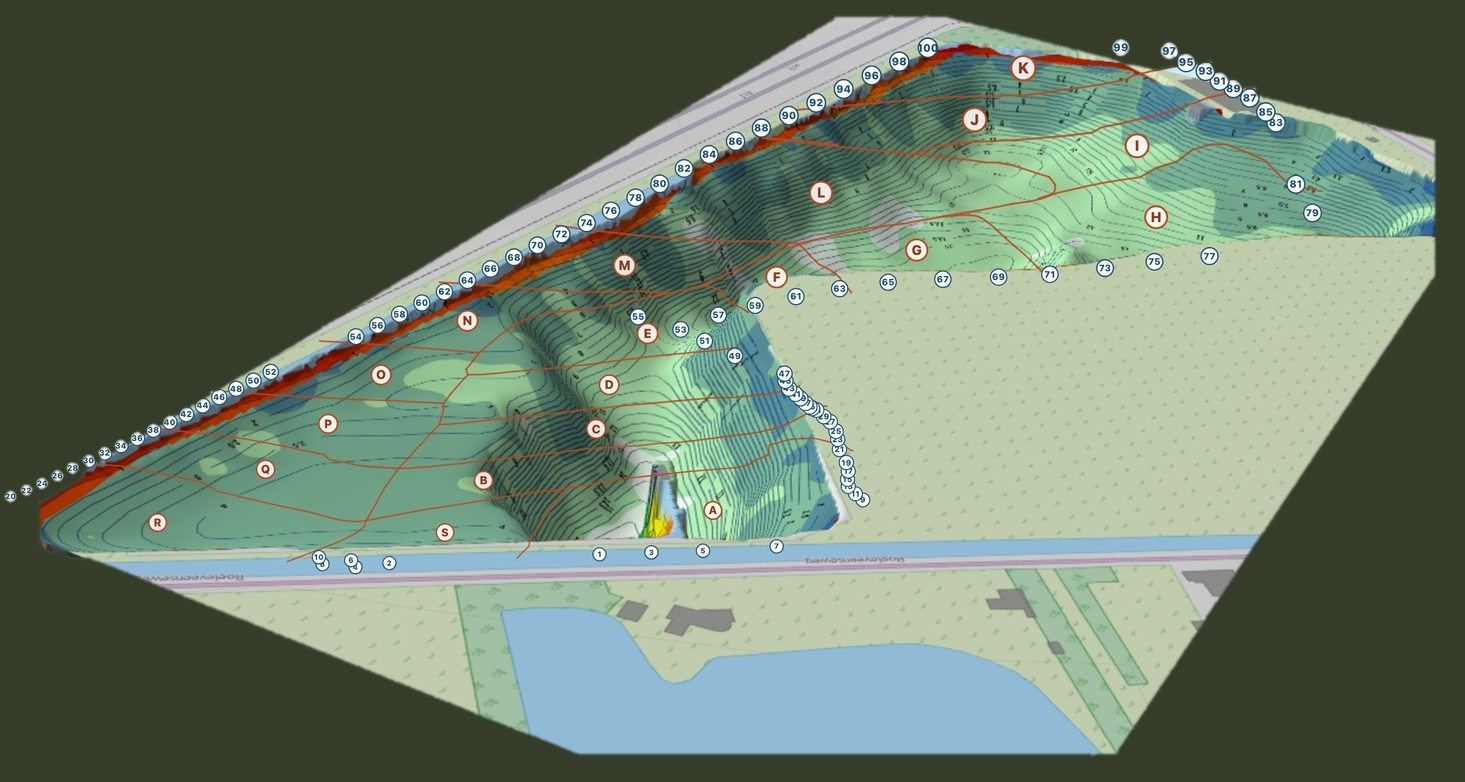
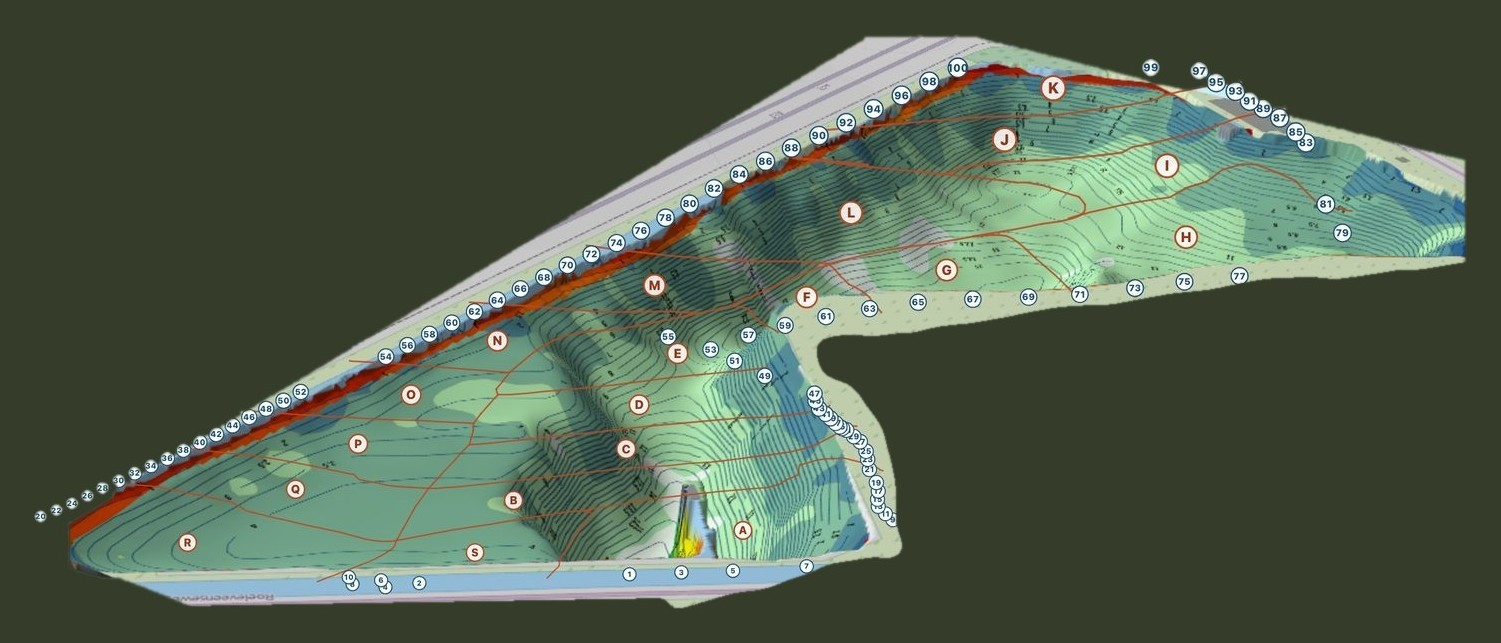
3D-kaart op de startpagina: alleen het water
Op aanwijzing van Patrick is het water uitgesneden; het weiland, de tweede plas
en de bebouwing eronder zijn weg. Alle steknummers en zones staan er nog op.
Nieuw formaat 1501 x 643. Gereedschap en de getekende lijn in tools/kaart3d/.

diff --git a/docs/index.html b/docs/index.html
@@ -235,7 +235,7 @@
         </div>
       </div>
       <figure class="kaartplaat" data-toon>
-        <img src="schermen/kaart3d-stekken.webp" alt="De 3D-dieptescan van de Plas van der Ende met de stekken en zones uit de app eroverheen" width="1465" height="782" loading="lazy">
+        <img src="schermen/kaart3d-stekken.webp" alt="De 3D-dieptescan van de Plas van der Ende met de stekken en zones uit de app eroverheen" width="1501" height="643" loading="lazy">
         <figcaption class="klein">Waar het mee begint: de dieptescan
         van jullie water, hier in 3D met de stekken en zones uit de app eroverheen. Zo'n scan,
         een oude papieren kaart of een tekening; wij maken er de interactieve kaart van.</figcaption>

diff --git a/tools/kaart3d/snij_water_uit.py b/tools/kaart3d/snij_water_uit.py
@@ -1,0 +1,90 @@
+"""Snijdt het water uit de 3D-kaart langs de lijn die Patrick op 19 nov 2026 in een schermafbeelding tekende.
+
+Gebruik (vanuit app/):
+  python3 tools/kaart3d/snij_water_uit.py <werkmap> <bron.jpg> <uit.jpg>
+In <werkmap>/kaart/ moet `lijn.png` staan (kopie van tools/kaart3d/lijn-patrick-2026-11-19.png:
+de getekende lijn, 2000 x 1077, wit op zwart). De bron is de ONGESNEDEN plaat van 1465 x 782
+(`git show 7ce5077:docs/schermen/kaart3d-stekken.jpg`). Daarna zelf rondom marge zetten en
+`python3 tools/naar_webp.py` draaien; zie CLAUDE.md, "Vormgeving van de startpagina".
+De schaal en verschuiving (S, DX, DY) horen bij die ene schermafbeelding."""
+import sys
+from collections import deque
+import numpy as np
+from PIL import Image, ImageFilter, ImageDraw
+
+sp, bron_pad, uit_pad = sys.argv[1], sys.argv[2], sys.argv[3]
+S, DX, DY = 1.424, 88, 28                       # schermafbeelding = bron x S, verschoven
+bron = Image.open(bron_pad).convert('RGB'); BW, BH = bron.size
+lijn_u = Image.open(sp + '/kaart/lijn.png').convert('L'); UW, UH = lijn_u.size
+
+# 1. de lijn naar de maat van de bron
+doek = Image.new('L', (int(BW * S) + 2, int(BH * S) + 2), 0); doek.paste(lijn_u, (DX, DY))
+lijn = np.asarray(doek.resize((BW, BH), Image.BILINEAR)) > 40
+
+def delen(m):
+    H, W = m.shape; lab = np.zeros((H, W), int); uit = []
+    for y in range(H):
+        for x in range(W):
+            if m[y, x] and not lab[y, x]:
+                n = len(uit) + 1; q = deque([(y, x)]); lab[y, x] = n; px = []
+                while q:
+                    cy, cx = q.popleft(); px.append((cx, cy))
+                    for dy in (-1, 0, 1):
+                        for dx in (-1, 0, 1):
+                            ny, nx = cy + dy, cx + dx
+                            if 0 <= ny < H and 0 <= nx < W and m[ny, nx] and not lab[ny, nx]:
+                                lab[ny, nx] = n; q.append((ny, nx))
+                uit.append(px)
+    return sorted(uit, key=len, reverse=True)
+
+d = delen(lijn); hoofd, haak = d[0], d[1]
+links = lambda px: min(px); rechts = lambda px: max(px)
+print('hoofdlijn', links(hoofd), rechts(hoofd), '| haak', links(haak), rechts(haak))
+
+# 2. achtergrond van de plaat (donkergroen)
+a = np.asarray(bron).astype(int); bg = np.array(bron.getpixel((3, 3)))
+achtergrond = (np.abs(a - bg).sum(axis=2) < 26)
+
+# 3. de lijn doortrekken tot de linker- en rechterrand van het beeld: dan verdeelt hij het
+#    beeld in een waterkant (boven) en een landkant (onder)
+dicht = Image.fromarray((lijn * 255).astype('uint8')); t = ImageDraw.Draw(dicht)
+t.line([rechts(haak), links(hoofd)], fill=255, width=3)                         # haak naar hoofdlijn
+hx, hy = links(haak); t.line([(hx, hy), (0, hy + 6)], fill=255, width=3)          # haak naar links
+rx, ry = rechts(hoofd); t.line([(rx, ry), (BW - 1, ry - 14)], fill=255, width=3)   # rechts door tot de rand
+muur = np.asarray(dicht.filter(ImageFilter.MaxFilter(3))) > 0
+
+# 4. alles aan de waterkant van de lijn (ook de losse steknummers die buiten de plaat zweven)
+zx, zy = int((900 + DX) / S), int((450 + DY) / S)
+assert not muur[zy, zx], 'startpunt ligt op de lijn'
+boven = np.zeros((BH, BW), bool); q = deque([(zy, zx)]); boven[zy, zx] = True
+while q:
+    cy, cx = q.popleft()
+    for dy, dx in ((1, 0), (-1, 0), (0, 1), (0, -1)):
+        ny, nx = cy + dy, cx + dx
+        if 0 <= ny < BH and 0 <= nx < BW and not boven[ny, nx] and not muur[ny, nx]:
+            boven[ny, nx] = True; q.append((ny, nx))
+boven |= muur & np.roll(boven, 2, axis=0)      # de lijn zelf hoort bij de waterkant
+
+# 5. langs de weg onder de vaart een rechte snede (de handlijn slingert daar om de weg heen):
+#    net onder de paarse weglijn, tot waar de handlijn omhoog gaat
+WEG_TOT = 640
+xs_ = np.arange(BW); weg = (585.0 - 0.0165 * xs_ + 3).astype(int)
+for x in range(0, WEG_TOT):
+    boven[weg[x] + 1:, x] = False
+    boven[500:weg[x] + 1, x] = True
+print('waterkant: %.1f%% van het beeld' % (100 * boven.mean()))
+masker = Image.fromarray((boven * 255).astype('uint8'))
+glad = masker.filter(ImageFilter.GaussianBlur(6)).point(lambda v: 255 if v > 128 else 0).filter(ImageFilter.GaussianBlur(0.8))
+masker.save(sp + '/kaart/masker.png')
+
+# 6. samenstellen op de achtergrondkleur en bijsnijden met marge
+vlak = Image.new('RGB', (BW, BH), tuple(int(v) for v in bg))
+uit = Image.composite(bron, vlak, glad)
+inhoud = (np.asarray(glad) > 128) & ~achtergrond
+# losse spikkels van de jpeg-compressie tellen niet mee voor de uitsnede
+inhoud = np.asarray(Image.fromarray((inhoud * 255).astype('uint8')).filter(ImageFilter.MinFilter(3))) > 0
+ys, xs = np.nonzero(inhoud)
+marge = 28
+box = (max(0, xs.min() - marge), max(0, ys.min() - marge), min(BW, xs.max() + marge), min(BH, ys.max() + marge))
+uit = uit.crop(box); print('uitsnede', box, 'maat', uit.size)
+uit.save(uit_pad, quality=90, optimize=True, progressive=True)

diff --git a/CLAUDE.md b/CLAUDE.md
@@ -1370,13 +1370,23 @@ elke vangst") en de kopjes "Meedoen" en "Contact" in de voet.
      tabbalk onder de topbar staat. Het beeld toont "Jij bent aan de beurt", de kaart
      met vrije en bezette stekken en de eerste regels van "Loting & volgorde".
   **Wel actueel en dus gelaten:** `scherm-klassement` (hero; vergeleken met een verse
-  opname, zelfde vormgeving), `scherm-overzicht`, `scherm-kaart-nphv`, `kaart3d-stekken`,
+  opname, zelfde vormgeving), `scherm-overzicht`, `scherm-kaart-nphv`,
   `uitsnede-seizoen`, `uitslag-gedeeld`, `vangst-klassement` (alle 18 nov), de filmposters
   (19 nov), `og.png`, de twee advertenties (telefoon helemaal in beeld) en beide A4's
   (geen telefoon). **Niet meer in gebruik op de site** (oude vormgeving, alleen nog bron
   of historie): `scherm-home`, `scherm-vangsten`, `scherm-seizoen`, `scherm-afsluiting`,
   `uitslag-carpclassic-2026`. `vangst-klein.jpg` en `avondlicht-800.jpg` worden door
   gereedschap gebruikt (rooktest, advertentie, huisstijloverzicht): laten staan.
+- **`kaart3d-stekken`: alleen nog het water (19 nov, op aanwijzing van Patrick).** Hij tekende
+  in een schermafbeelding een zwarte lijn om het water; het weiland, de tweede plas en de
+  bebouwing eronder zijn weggesneden. Alle steknummers staan er nog op, ook de losse nummers
+  20 tot 28 en 99 die buiten de plaat zweven. Langs de weg onder de vaart is de snede recht
+  getrokken (de handlijn slingerde daar), de rest volgt zijn lijn, gladgestreken. Nieuw
+  formaat 1501 x 643 (was 1465 x 782); `width` en `height` in `index.html` zijn meegegaan.
+  Gereedschap en de lijn zelf: `tools/kaart3d/`. De ongesneden plaat staat in git
+  (`git show 7ce5077:docs/schermen/kaart3d-stekken.jpg`). **Niet aangepast:**
+  `docs/nphv/kaart-3d.jpg`, de 3D-kaart die de NPHV-app zelf opent (oorspronkelijke render,
+  met land en dieptelegenda).
 - **Twee oude fouten die hierbij aan het licht kwamen (Codex-review van de diff, nagemeten):**
   (1) de topbar bleef bij scrollen NIET bovenaan staan: `html, body { overflow-x: hidden }`
   maakt van `body` een scrollvak en dan plakt `position: sticky` niet. Nu
